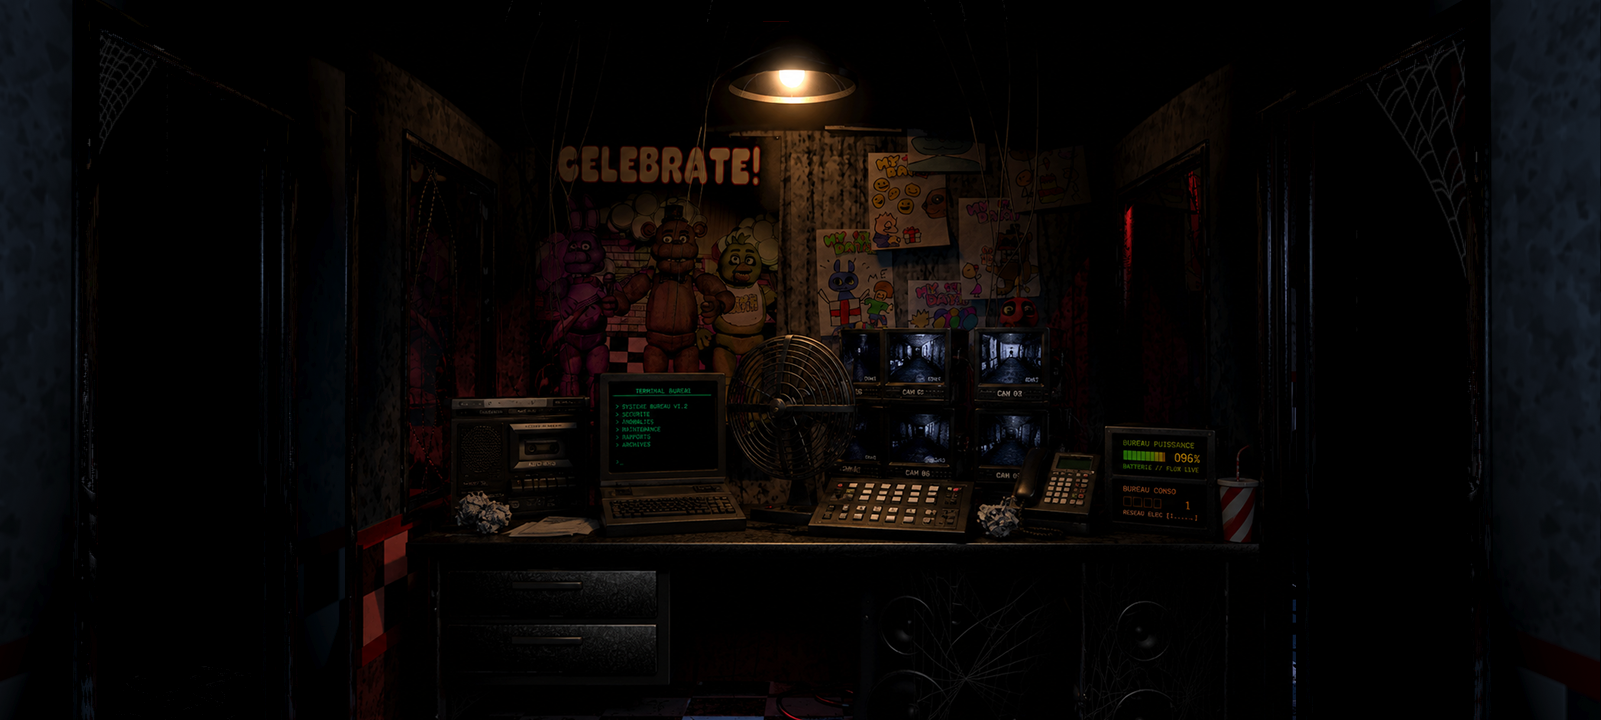
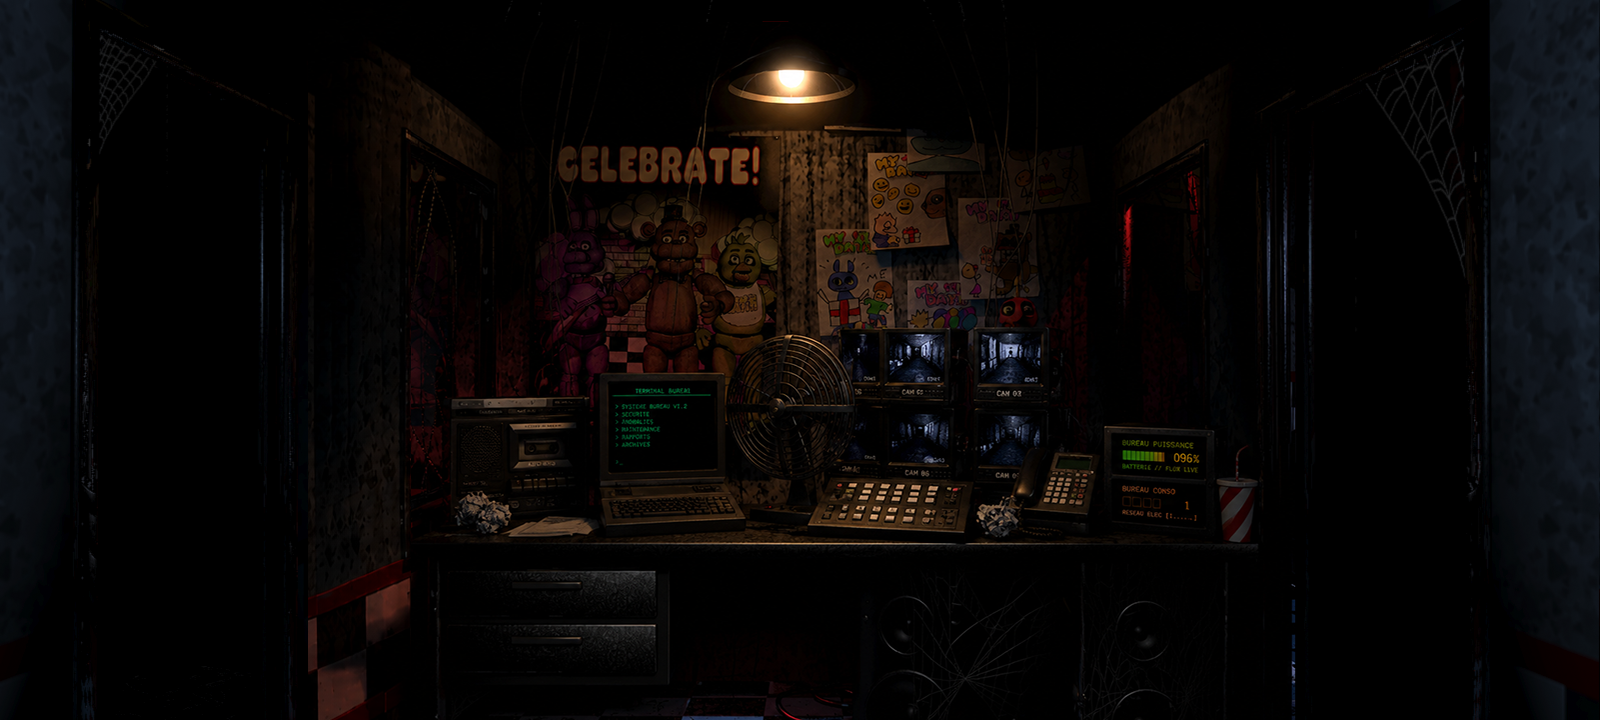
feat(office): add consumption display and update battery screen functionality

Changed region(s): [[0.1875, 0.7333, 0.2812, 1.0]]

diff --git a/script/mechanics/office_screen.js b/script/mechanics/office_screen.js
@@ -1,47 +1,119 @@
 // office_screen.js
-// Surimpression de la batterie sur l'ecran presente dans l'image du bureau.
-// Le panneau HTML #powerUsage reste en place : cette surimpression est un
-// second affichage, diegetique, dessine directement sur le canvas pour
-// suivre le panoramique gauche/droite du bureau.
+// Surimpression de la batterie et de la consommation sur les ecrans presents
+// dans l'image du bureau. Les panneaux HTML #powerUsage et #usage-status
+// restent en place : ces surimpressions sont un second affichage, diegetique,
+// dessine directement sur le canvas pour suivre le panoramique du bureau.
 
-const OFFICE_BATTERY_SCREEN = Object.freeze({
+const OFFICE_SCREEN = Object.freeze({
   // Le rendu 3D contient un texte de remplissage : on repeint le fond
-  // pour le masquer avant de dessiner les valeurs reelles.
+  // pour le masquer avant de dessiner la jauge et les barres.
   BACKDROP: '#010402',
-  LABEL_COLOR: '#dcefe2',
-  SEGMENT_COUNT: 10,
-  SEGMENT_GAP_RATIO: 0.18,
-  TRACK_COLOR: 'rgba(255, 255, 255, 0.06)',
-  TRACK_BORDER: 'rgba(120, 220, 150, 0.22)',
+  SCANLINE_COLOR: 'rgba(0, 0, 0, 0.13)',
+  PADDING_X_RATIO: 0.06,
   LOW_THRESHOLD: 30,
   CRITICAL_THRESHOLD: 10,
   BLINK_PERIOD_MS: 800,
-  FONT_FAMILY: '"Press Start 2P", monospace'
+  // En dessous de cette taille a l'ecran la surimpression n'est plus
+  // lisible : l'ecran du rendu suffit.
+  MIN_WIDTH: 40,
+  MIN_HEIGHT: 18
+});
+
+const OFFICE_BATTERY_SCREEN = Object.freeze({
+  // Part de la hauteur de l'ecran occupee par la jauge.
+  GAUGE_HEIGHT_RATIO: 0.62,
+  SEGMENT_COUNT: 10,
+  SEGMENT_GAP_RATIO: 0.18,
+  TRACK_COLOR: 'rgba(255, 255, 255, 0.06)',
+  TRACK_BORDER: 'rgba(120, 220, 150, 0.22)'
+});
+
+const OFFICE_USAGE_SCREEN = Object.freeze({
+  // Part de la hauteur de l'ecran occupee par la barre la plus haute.
+  MAX_BAR_HEIGHT_RATIO: 0.78,
+  BAR_WIDTH_RATIO: 0.72,
+  // Hauteur relative de la barre la plus courte : les barres montent en
+  // escalier comme sur le panneau HTML #usage-status.
+  MIN_BAR_HEIGHT_RATIO: 0.45,
+  IDLE_BAR_COLOR: 'rgba(255, 255, 255, 0.05)',
+  IDLE_BAR_BORDER: 'rgba(150, 150, 150, 0.35)'
 });
 
 /**
- * Palette de la jauge selon le niveau de batterie.
+ * Palette de la jauge de batterie selon le niveau restant.
  * @param {number} displayPower - Batterie affichee (0-100)
- * @returns {{from: string, to: string, digits: string, glow: string}} Couleurs de la jauge
+ * @returns {{from: string, to: string, glow: string}} Couleurs de la jauge
  */
 function getOfficeBatteryPalette(displayPower) {
-  if (displayPower <= OFFICE_BATTERY_SCREEN.CRITICAL_THRESHOLD) {
-    return { from: '#ff6d4b', to: '#ff2222', digits: '#ff5252', glow: 'rgba(255, 40, 40, 0.55)' };
+  if (displayPower <= OFFICE_SCREEN.CRITICAL_THRESHOLD) {
+    return { from: '#ff6d4b', to: '#ff2222', glow: 'rgba(255, 40, 40, 0.55)' };
   }
-  if (displayPower <= OFFICE_BATTERY_SCREEN.LOW_THRESHOLD) {
-    return { from: '#ffd23f', to: '#ff8a1f', digits: '#ffb648', glow: 'rgba(255, 150, 40, 0.45)' };
+  if (displayPower <= OFFICE_SCREEN.LOW_THRESHOLD) {
+    return { from: '#ffd23f', to: '#ff8a1f', glow: 'rgba(255, 150, 40, 0.45)' };
   }
-  return { from: '#3dff6a', to: '#e2ff3a', digits: '#ffe14a', glow: 'rgba(80, 255, 130, 0.40)' };
+  return { from: '#3dff6a', to: '#e2ff3a', glow: 'rgba(80, 255, 130, 0.40)' };
 }
 
 /**
- * Libelle de l'ecran batterie dans la langue courante.
- * @returns {string} Libelle a afficher
+ * Palette des barres de consommation. Passe au rouge quand la batterie est
+ * critique, comme le panneau HTML #usage-status.
+ * @param {boolean} isCritical - Vrai si la batterie est au niveau critique
+ * @returns {{from: string, to: string, glow: string}} Couleurs des barres
  */
-function getOfficeBatteryScreenLabel() {
-  const lang = window.selectedLanguage || window.FNAF_DEFAULT_LANGUAGE || 'fr';
-  const t = typeof getCurrentTranslations === 'function' ? getCurrentTranslations() : {};
-  return t.powerPanel?.screenLabel || (lang === 'en' ? 'BATTERY' : 'BATTERIE');
+function getOfficeUsagePalette(isCritical) {
+  if (isCritical) {
+    return { from: '#ff7f54', to: '#ff3535', glow: 'rgba(255, 58, 58, 0.55)' };
+  }
+  return { from: '#ffd24f', to: '#ff9d20', glow: 'rgba(255, 170, 48, 0.45)' };
+}
+
+/**
+ * Convertit une zone normalisee en rectangle a l'ecran, dans le repere de
+ * l'image telle qu'elle vient d'etre dessinee par ctx.drawImage().
+ * @param {{x: number, y: number, width: number, height: number}|null} rect - Zone normalisee
+ * @param {number} drawX - Abscisse de l'image dessinee
+ * @param {number} drawY - Ordonnee de l'image dessinee
+ * @param {number} drawWidth - Largeur de l'image dessinee
+ * @param {number} drawHeight - Hauteur de l'image dessinee
+ * @returns {{x: number, y: number, width: number, height: number}|null} Rectangle a l'ecran, ou null si la zone est absente ou trop petite
+ */
+function resolveOfficeScreenBox(rect, drawX, drawY, drawWidth, drawHeight) {
+  if (!rect) return null;
+
+  const width = rect.width * drawWidth;
+  const height = rect.height * drawHeight;
+  if (width < OFFICE_SCREEN.MIN_WIDTH || height < OFFICE_SCREEN.MIN_HEIGHT) return null;
+
+  return {
+    x: drawX + rect.x * drawWidth,
+    y: drawY + rect.y * drawHeight,
+    width,
+    height
+  };
+}
+
+/**
+ * Repeint le fond d'un ecran pour masquer le texte de remplissage du rendu.
+ * @param {CanvasRenderingContext2D} ctx - Contexte de dessin
+ * @param {{x: number, y: number, width: number, height: number}} box - Rectangle de l'ecran
+ */
+function clearOfficeScreen(ctx, box) {
+  ctx.fillStyle = OFFICE_SCREEN.BACKDROP;
+  ctx.fillRect(box.x, box.y, box.width, box.height);
+}
+
+/**
+ * Dessine les lignes de balayage pour que la surimpression se fonde dans
+ * l'ecran du rendu.
+ * @param {CanvasRenderingContext2D} ctx - Contexte de dessin
+ * @param {{x: number, y: number, width: number, height: number}} box - Rectangle de l'ecran
+ */
+function drawOfficeScreenScanlines(ctx, box) {
+  const step = Math.max(2, Math.round(box.height / 14));
+  ctx.fillStyle = OFFICE_SCREEN.SCANLINE_COLOR;
+  for (let lineY = box.y; lineY < box.y + box.height; lineY += step) {
+    ctx.fillRect(box.x, lineY, box.width, 1);
+  }
 }
 
 /**
@@ -94,26 +166,85 @@ function drawOfficeBatteryGauge(ctx, x, y, width, height, ratio, palette) {
 }
 
 /**
- * Dessine les lignes de balayage pour que la surimpression se fonde dans
- * l'ecran du rendu.
+ * Dessine les barres de consommation en escalier, allumees jusqu'au niveau
+ * d'utilisation courant.
  * @param {CanvasRenderingContext2D} ctx - Contexte de dessin
- * @param {number} x - Bord gauche de l'ecran
- * @param {number} y - Bord haut de l'ecran
- * @param {number} width - Largeur de l'ecran
- * @param {number} height - Hauteur de l'ecran
+ * @param {number} x - Bord gauche de la rangee
+ * @param {number} baselineY - Ordonnee du pied des barres
+ * @param {number} width - Largeur de la rangee
+ * @param {number} maxHeight - Hauteur de la barre la plus haute
+ * @param {number} usageLevel - Niveau d'utilisation courant (1 a MAX_USAGE)
+ * @param {{from: string, to: string, glow: string}} palette - Couleurs des barres allumees
  */
-function drawOfficeScreenScanlines(ctx, x, y, width, height) {
-  const step = Math.max(2, Math.round(height / 14));
-  ctx.fillStyle = 'rgba(0, 0, 0, 0.13)';
-  for (let lineY = y; lineY < y + height; lineY += step) {
-    ctx.fillRect(x, lineY, width, 1);
+function drawOfficeUsageBars(ctx, x, baselineY, width, maxHeight, usageLevel, palette) {
+  const barCount = POWER_SYSTEM.MAX_USAGE;
+  const pitch = width / barCount;
+  const barWidth = Math.max(1, pitch * OFFICE_USAGE_SCREEN.BAR_WIDTH_RATIO);
+  const heightStep = barCount > 1
+    ? (1 - OFFICE_USAGE_SCREEN.MIN_BAR_HEIGHT_RATIO) / (barCount - 1)
+    : 0;
+
+  for (let i = 0; i < barCount; i++) {
+    const barHeight = maxHeight * (OFFICE_USAGE_SCREEN.MIN_BAR_HEIGHT_RATIO + heightStep * i);
+    const barX = x + i * pitch;
+    const barY = baselineY - barHeight;
+
+    if (i < usageLevel) {
+      const gradient = ctx.createLinearGradient(barX, barY, barX, barY + barHeight);
+      gradient.addColorStop(0, palette.from);
+      gradient.addColorStop(1, palette.to);
+      ctx.fillStyle = gradient;
+      ctx.shadowColor = palette.glow;
+      ctx.shadowBlur = Math.max(2, maxHeight * 0.25);
+      ctx.fillRect(barX, barY, barWidth, barHeight);
+      ctx.shadowBlur = 0;
+    } else {
+      ctx.fillStyle = OFFICE_USAGE_SCREEN.IDLE_BAR_COLOR;
+      ctx.fillRect(barX, barY, barWidth, barHeight);
+      ctx.strokeStyle = OFFICE_USAGE_SCREEN.IDLE_BAR_BORDER;
+      ctx.lineWidth = 1;
+      ctx.strokeRect(barX, barY, barWidth, barHeight);
+    }
   }
 }
 
 /**
- * Dessine la batterie en surimpression sur l'ecran du bureau.
- * Les coordonnees d'image (drawX/drawY/drawWidth/drawHeight) sont celles
- * passees a ctx.drawImage() : la surimpression suit donc exactement le
+ * Dessine le contenu de l'ecran batterie : la jauge remplit l'ecran.
+ * @param {CanvasRenderingContext2D} ctx - Contexte de dessin
+ * @param {{x: number, y: number, width: number, height: number}} box - Rectangle de l'ecran
+ * @param {number} displayPower - Batterie affichee (0-100)
+ */
+function drawOfficeBatteryContent(ctx, box, displayPower) {
+  const palette = getOfficeBatteryPalette(displayPower);
+  const paddingX = box.width * OFFICE_SCREEN.PADDING_X_RATIO;
+
+  const gaugeWidth = box.width - paddingX * 2;
+  const gaugeHeight = box.height * OFFICE_BATTERY_SCREEN.GAUGE_HEIGHT_RATIO;
+  const gaugeY = box.y + (box.height - gaugeHeight) * 0.5;
+  drawOfficeBatteryGauge(ctx, box.x + paddingX, gaugeY, gaugeWidth, gaugeHeight, displayPower / 100, palette);
+}
+
+/**
+ * Dessine le contenu de l'ecran consommation : les barres remplissent l'ecran.
+ * @param {CanvasRenderingContext2D} ctx - Contexte de dessin
+ * @param {{x: number, y: number, width: number, height: number}} box - Rectangle de l'ecran
+ * @param {number} usageLevel - Niveau d'utilisation courant (1 a MAX_USAGE)
+ * @param {boolean} isCritical - Vrai si la batterie est au niveau critique
+ */
+function drawOfficeUsageContent(ctx, box, usageLevel, isCritical) {
+  const palette = getOfficeUsagePalette(isCritical);
+  const paddingX = box.width * OFFICE_SCREEN.PADDING_X_RATIO;
+
+  const barsWidth = box.width - paddingX * 2;
+  const barsMaxHeight = box.height * OFFICE_USAGE_SCREEN.MAX_BAR_HEIGHT_RATIO;
+  const barsBaselineY = box.y + (box.height + barsMaxHeight) * 0.5;
+  drawOfficeUsageBars(ctx, box.x + paddingX, barsBaselineY, barsWidth, barsMaxHeight, usageLevel, palette);
+}
+
+/**
+ * Dessine les ecrans batterie et consommation en surimpression sur l'image
+ * du bureau. Les coordonnees passees sont celles utilisees pour
+ * ctx.drawImage() : les surimpressions suivent donc exactement le
  * panoramique du bureau.
  * @param {CanvasRenderingContext2D} ctx - Contexte de dessin
  * @param {string} officeImageKey - Cle de l'image du bureau affichee
@@ -122,58 +253,37 @@ function drawOfficeScreenScanlines(ctx, x, y, width, height) {
  * @param {number} drawWidth - Largeur de l'image dessinee
  * @param {number} drawHeight - Hauteur de l'image dessinee
  */
-function drawOfficeBatteryScreen(ctx, officeImageKey, drawX, drawY, drawWidth, drawHeight) {
-  const rect = getOfficeBatteryScreenRect(officeImageKey);
-  if (!rect || power <= 0) return;
+function drawOfficeScreens(ctx, officeImageKey, drawX, drawY, drawWidth, drawHeight) {
+  if (power <= 0) return;
 
-  const x = drawX + rect.x * drawWidth;
-  const y = drawY + rect.y * drawHeight;
-  const width = rect.width * drawWidth;
-  const height = rect.height * drawHeight;
-  // Sous cette taille le texte est illisible : l'ecran du rendu suffit.
-  if (width < 40 || height < 18) return;
+  const batteryBox = resolveOfficeScreenBox(getOfficeBatteryScreenRect(officeImageKey), drawX, drawY, drawWidth, drawHeight);
+  const usageBox = resolveOfficeScreenBox(getOfficeUsageScreenRect(officeImageKey), drawX, drawY, drawWidth, drawHeight);
+  if (!batteryBox && !usageBox) return;
 
   const displayPower = Math.max(0, Math.min(100, Math.floor(power)));
-  const palette = getOfficeBatteryPalette(displayPower);
-  const isCritical = displayPower <= OFFICE_BATTERY_SCREEN.CRITICAL_THRESHOLD;
+  const isCritical = displayPower <= OFFICE_SCREEN.CRITICAL_THRESHOLD;
   const blinkOff = isCritical &&
-    (performance.now() % OFFICE_BATTERY_SCREEN.BLINK_PERIOD_MS) > OFFICE_BATTERY_SCREEN.BLINK_PERIOD_MS / 2;
+    (performance.now() % OFFICE_SCREEN.BLINK_PERIOD_MS) > OFFICE_SCREEN.BLINK_PERIOD_MS / 2;
 
   ctx.save();
 
-  ctx.fillStyle = OFFICE_BATTERY_SCREEN.BACKDROP;
-  ctx.fillRect(x, y, width, height);
+  if (batteryBox) clearOfficeScreen(ctx, batteryBox);
+  if (usageBox) clearOfficeScreen(ctx, usageBox);
 
   if (blinkOff) {
     ctx.globalAlpha = 0.45;
   }
 
-  const paddingX = width * 0.06;
-  const contentWidth = width - paddingX * 2;
-
-  const labelSize = Math.max(5, height * 0.19);
-  ctx.font = `${labelSize}px ${OFFICE_BATTERY_SCREEN.FONT_FAMILY}`;
-  ctx.textAlign = 'left';
-  ctx.textBaseline = 'alphabetic';
-  ctx.fillStyle = OFFICE_BATTERY_SCREEN.LABEL_COLOR;
-  ctx.fillText(getOfficeBatteryScreenLabel(), x + paddingX, y + height * 0.30 + labelSize * 0.5);
-
-  const gaugeWidth = contentWidth * 0.62;
-  const gaugeHeight = height * 0.34;
-  const gaugeY = y + height * 0.48;
-  drawOfficeBatteryGauge(ctx, x + paddingX, gaugeY, gaugeWidth, gaugeHeight, displayPower / 100, palette);
-
-  const digitsSize = Math.max(6, height * 0.26);
-  ctx.font = `${digitsSize}px ${OFFICE_BATTERY_SCREEN.FONT_FAMILY}`;
-  ctx.textAlign = 'right';
-  ctx.fillStyle = palette.digits;
-  ctx.shadowColor = palette.glow;
-  ctx.shadowBlur = Math.max(2, digitsSize * 0.5);
-  ctx.fillText(`${String(displayPower).padStart(3, '0')}%`, x + width - paddingX, gaugeY + gaugeHeight * 0.5 + digitsSize * 0.4);
-  ctx.shadowBlur = 0;
+  if (batteryBox) {
+    drawOfficeBatteryContent(ctx, batteryBox, displayPower);
+  }
+  if (usageBox) {
+    drawOfficeUsageContent(ctx, usageBox, getPowerUsageLevel(), isCritical);
+  }
 
   ctx.globalAlpha = 1;
-  drawOfficeScreenScanlines(ctx, x, y, width, height);
+  if (batteryBox) drawOfficeScreenScanlines(ctx, batteryBox);
+  if (usageBox) drawOfficeScreenScanlines(ctx, usageBox);
 
   ctx.restore();
 }

diff --git a/script/loaders/office_screens.js b/script/loaders/office_screens.js
@@ -30,3 +30,13 @@ function getOfficeBatteryScreenRect(officeImageKey) {
   if (!OFFICE_SCREENS_CONFIG.enabled) return null;
   return OFFICE_SCREENS_CONFIG.batteryScreens?.[officeImageKey] || null;
 }
+
+/**
+ * Retourne la zone normalisee de l'ecran consommation pour une image de bureau.
+ * @param {string} officeImageKey - Cle de l'image du bureau (ex: safe_room_left_light_1_right_light_0)
+ * @returns {{x: number, y: number, width: number, height: number}|null} Zone normalisee, ou null si l'image n'a pas d'ecran calibre
+ */
+function getOfficeUsageScreenRect(officeImageKey) {
+  if (!OFFICE_SCREENS_CONFIG.enabled) return null;
+  return OFFICE_SCREENS_CONFIG.usageScreens?.[officeImageKey] || null;
+}

diff --git a/script/mechanics/camera.js b/script/mechanics/camera.js
@@ -609,7 +609,7 @@ function drawOfficeView(ctx,officeImageKey=null) {
           const drawY = (canvas.height - drawHeight) / 2;
 
           ctx.drawImage(picture, drawX, drawY, drawWidth, drawHeight);
-          drawOfficeBatteryScreen(ctx, officeImageKey, drawX, drawY, drawWidth, drawHeight);
+          drawOfficeScreens(ctx, officeImageKey, drawX, drawY, drawWidth, drawHeight);
             hideGif();
         }
     }
